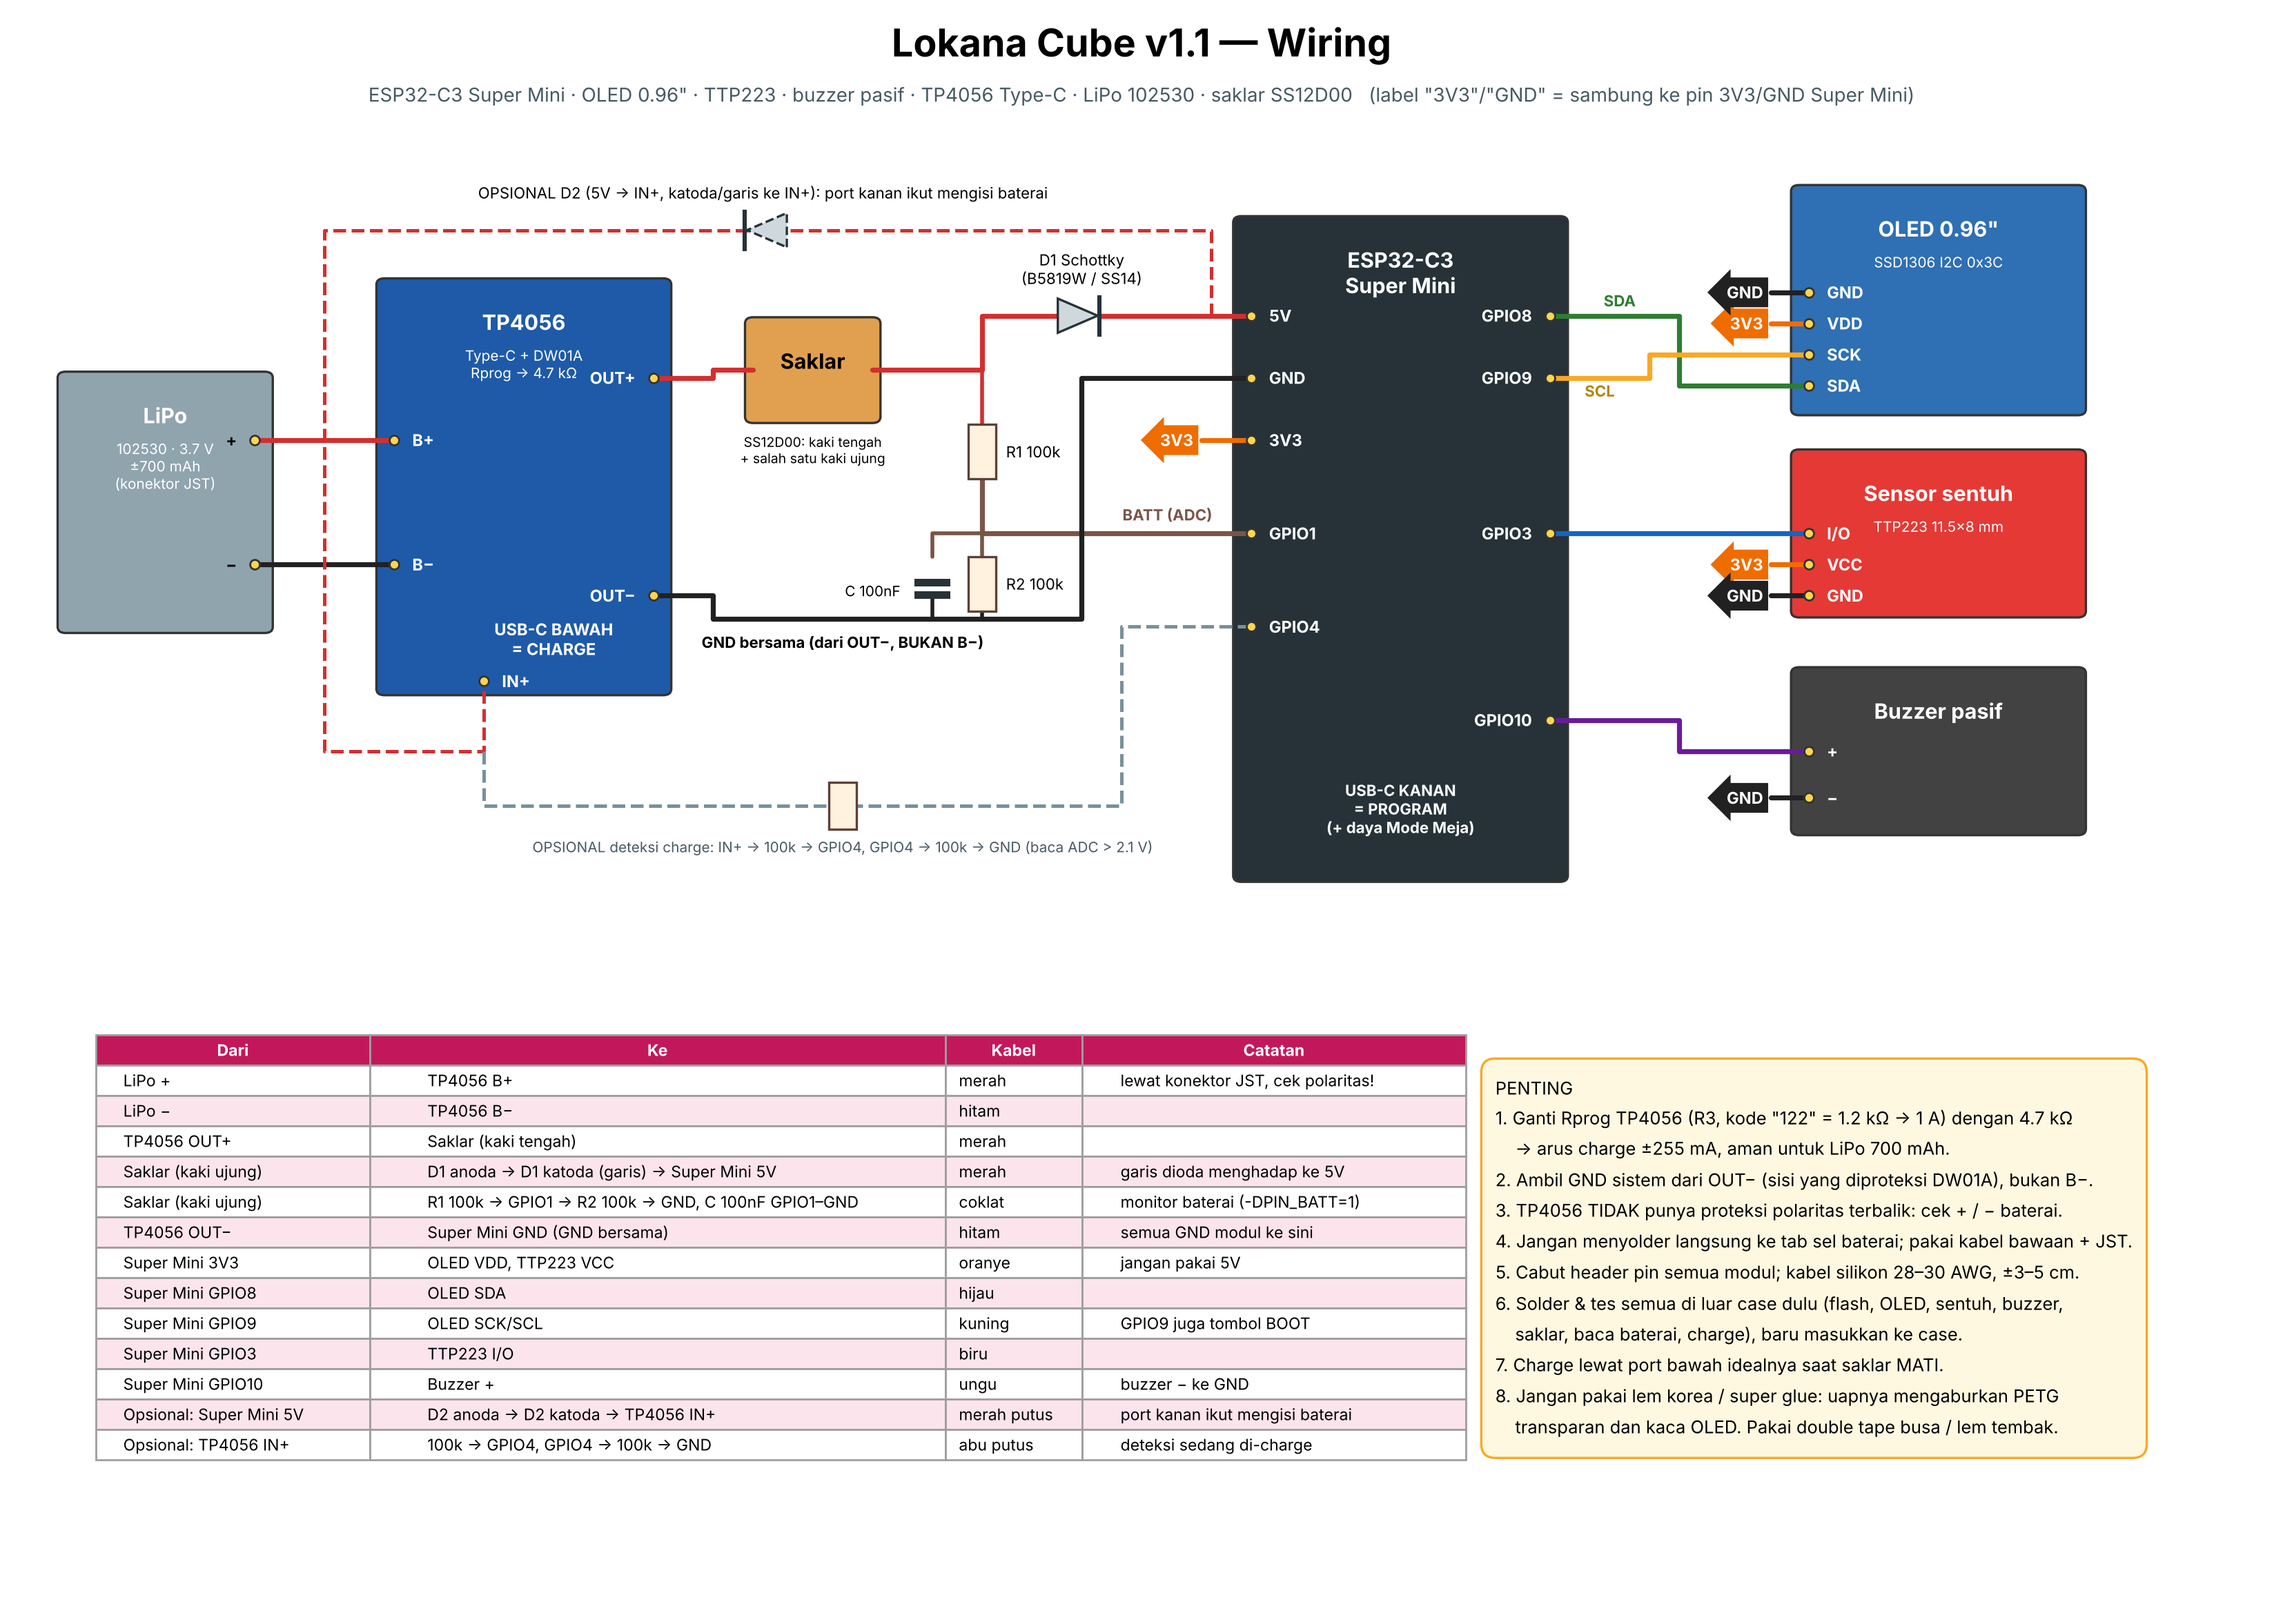
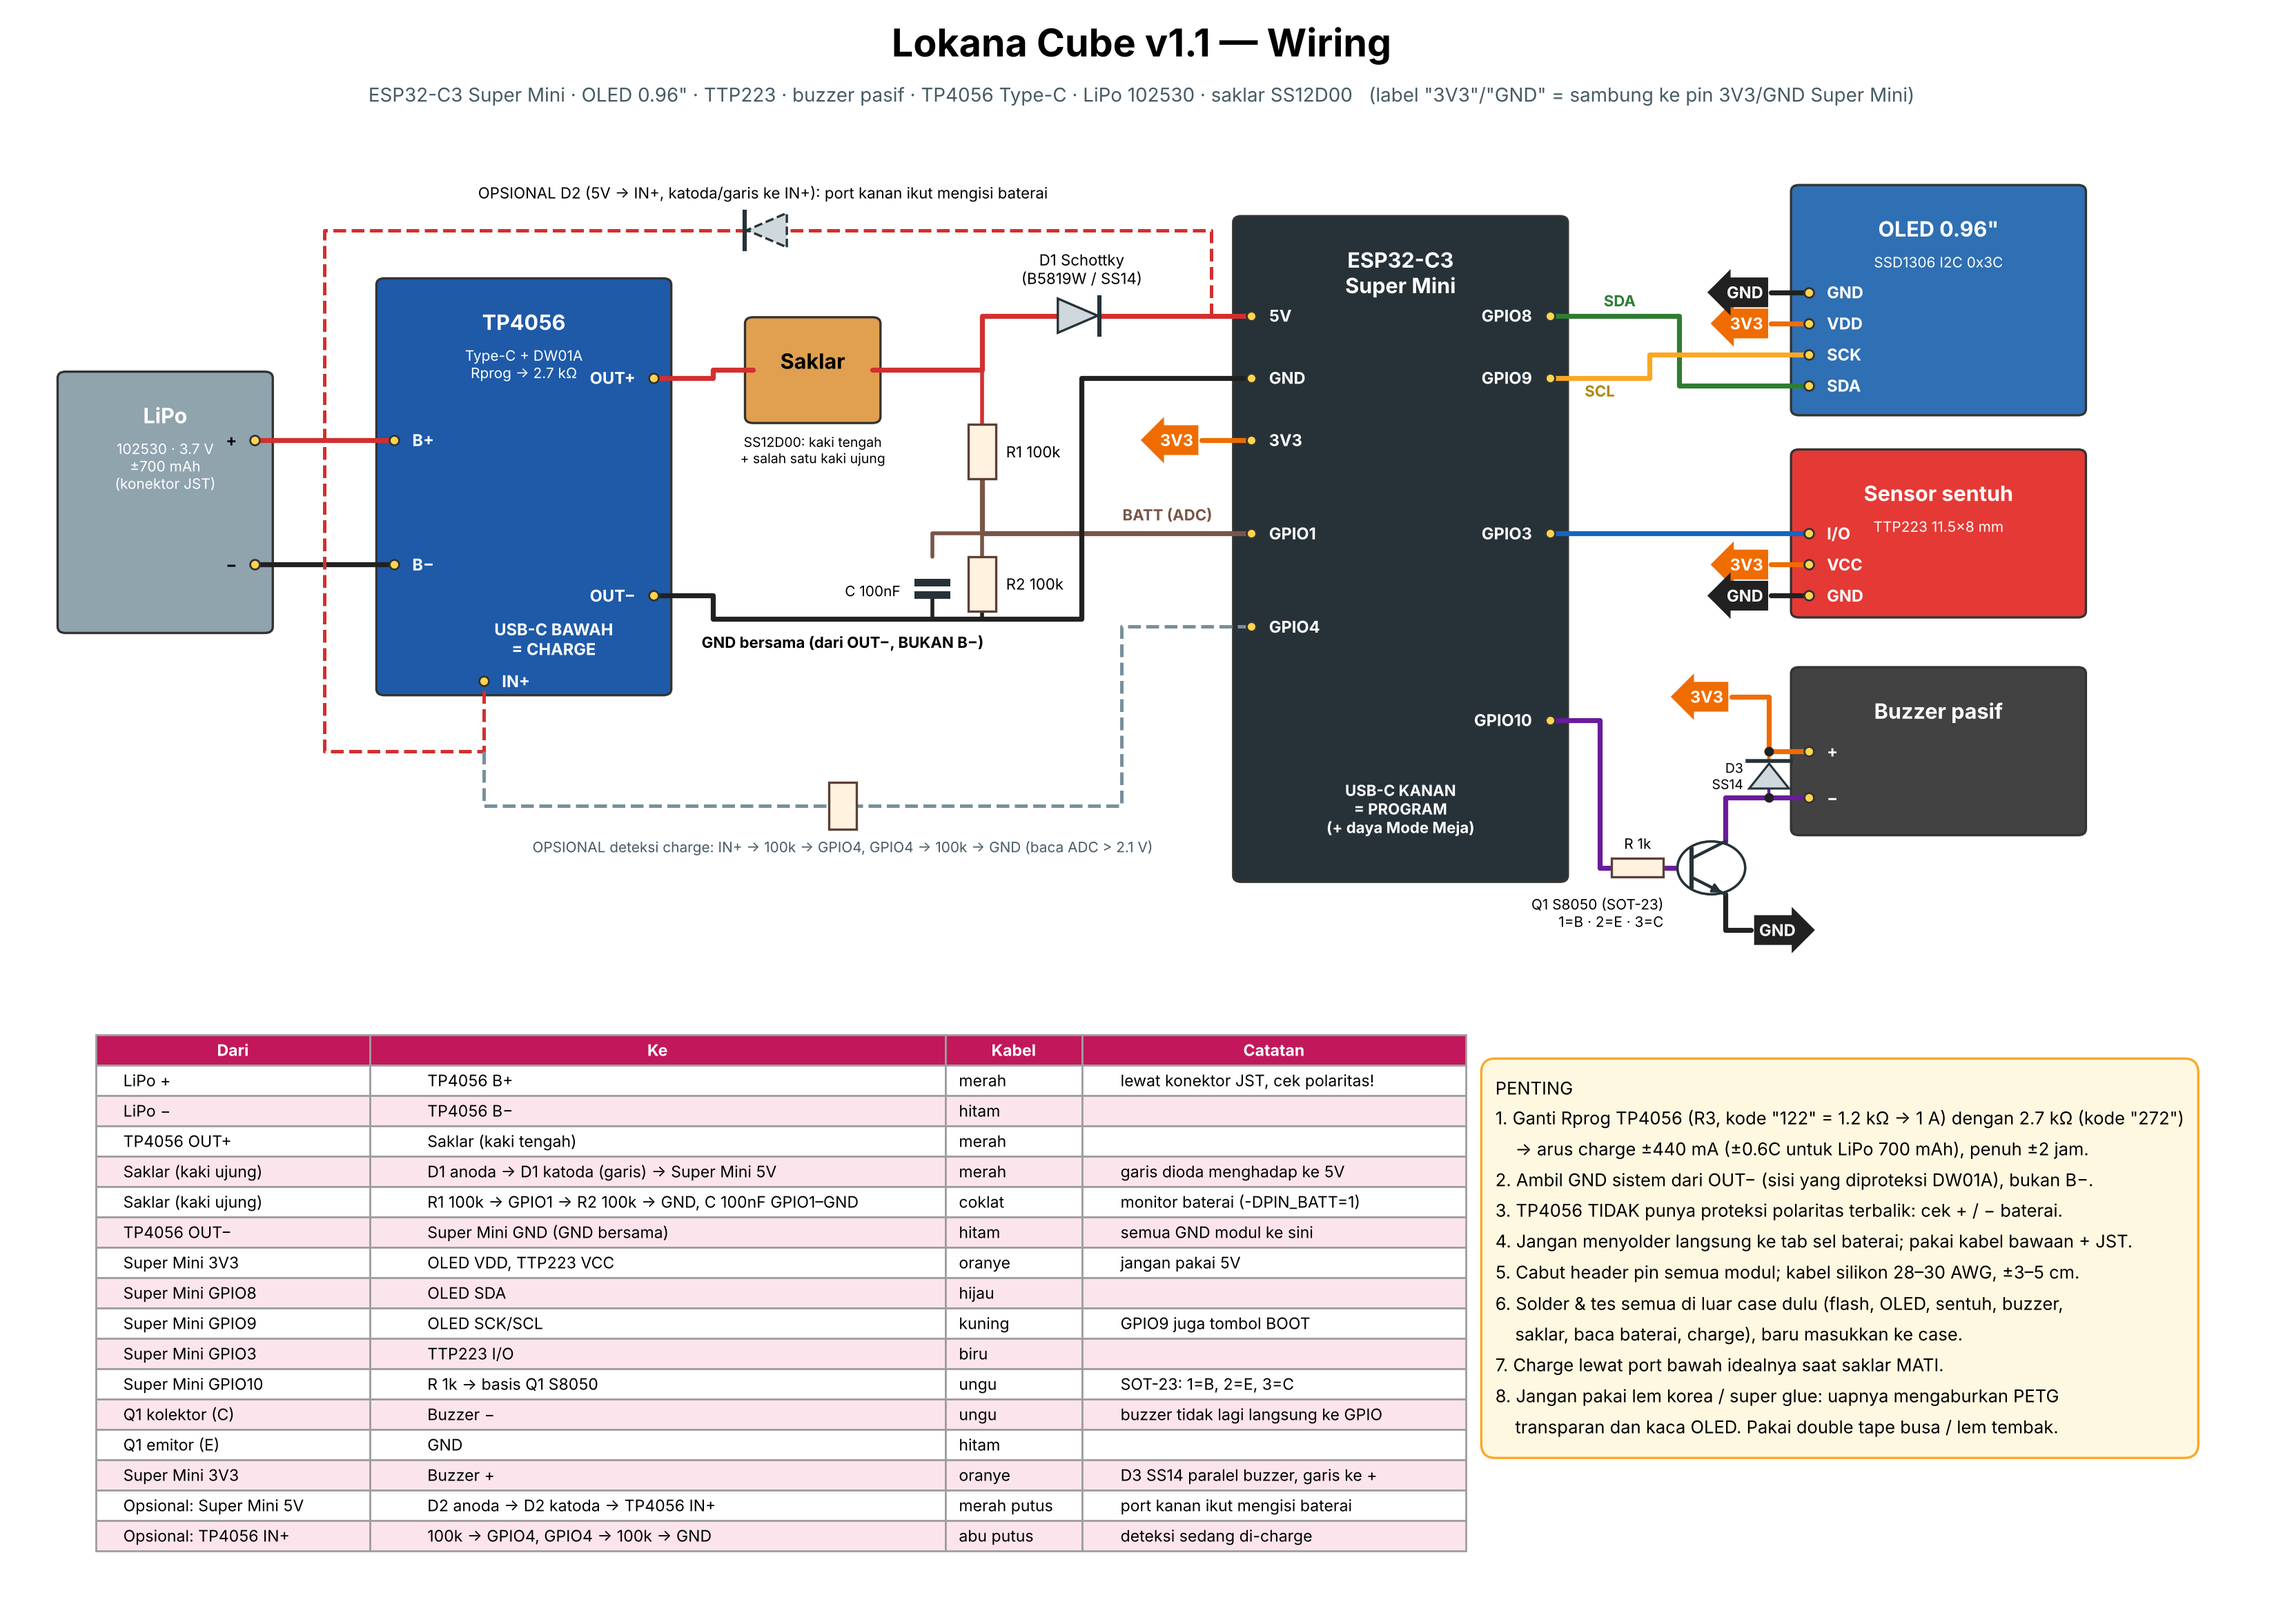
Hardware: BOM, Rprog 2.7k, buzzer lewat Q1, wiring baru
- hardware/BOM.md: daftar komponen & bahan per unit, belanja 3 unit, pin ringkas
- Rprog TP4056 2.7 kOhm (+-440 mA), buzzer lewat transistor Q1 + D3 (case README, CLAUDE.md, wiring PNG)
- Alternatif sah untuk unit pertama: Q1 2SC1815 SOT-23, R basis 1.2 kOhm, C ADC 220 nF

Changed region(s): [[0.0311, 0.843, 0.6539, 0.9679], [0.7161, 0.6557, 0.9652, 0.9055], [0.685, 0.4059, 0.8096, 0.5932]]

diff --git a/hardware/BOM.md b/hardware/BOM.md
@@ -1,0 +1,75 @@
+# Lokana Cube v1.1: daftar komponen dan bahan (BOM)
+
+Untuk satu unit Lokana Cube: ESP32-C3 Super Mini, OLED 0.96", baterai LiPo, dan casing 3D print.
+Wiring lengkap ada di `case/lokana_wiring.png`, cara rakit di `case/README.md`.
+
+## 1. Elektronik (per unit)
+
+| Ref | Komponen | Jml | Spesifikasi / catatan | Kata kunci belanja |
+|---|---|---|---|---|
+| U1 | ESP32-C3 Super Mini | 1 | Type-C, 22.5 × 18 mm | `esp32 c3 super mini` |
+| U2 | OLED 0.96" SSD1306 I2C 128×64 | 1 | 4 pin. Cek urutan pin (GND-VCC atau VCC-GND) | `oled 0.96 i2c 4 pin` |
+| U3 | Modul charger TP4056 Type-C **+ proteksi** | 1 | 6 pad (B+ B− OUT+ OUT− IN+ IN−), chip DW01A + 8205A | `tp4056 type c proteksi` |
+| U4 | Sensor sentuh TTP223 mini | 1 | 11.5 × 8 mm, jumper bawaan (output aktif HIGH) | `ttp223 mini` |
+| BT1 | Baterai LiPo **102530** 3.7 V ±700 mAh | 1 | Sudah ada PCM/proteksi; maks 26 × 31 × 10 mm termasuk PCM | `lipo 102530` |
+| SW1 | Saklar geser SS12D00 | 1 | 3 kaki, tuas 4 mm | `ss12d00` |
+| BZ1 | Buzzer **pasif** 9 × 5.5 mm, 3 V | 1 | Magnetik, kumparan ±16 Ω, **wajib lewat Q1** | `passive buzzer 9055 3v` |
+| Q1 | Transistor NPN S8050 SOT-23 (J3Y) | 1 | Atau MMBT2222A, atau **2SC1815 SOT-23** (marking HF, Ic maks 150 mA; cukup karena buzzer ±30–50 mA). Pin 1=B, 2=E, 3=C (cek marking/datasheet penjual) | `s8050 sot23` |
+| D1 | Dioda Schottky SS14 (SMA) / B5819W (SOD-123) | 1 | Baterai → pin 5V Super Mini | `ss14 smd` |
+| D2 | Dioda Schottky SS14 / B5819W | 0–1 | **Opsional**: port kanan ikut mengisi baterai | — |
+| D3 | Dioda Schottky SS14 / B5819W | 1 | Paralel buzzer, katoda ke + | — |
+| R0 | Resistor SMD 0603 **2.7 kΩ** (kode "272") | 1 | **Rprog TP4056**, ganti R3 bawaan 1.2 kΩ (kode "122"). Charge ±440 mA | `resistor 0603 2k7` |
+| R1, R2 | Resistor SMD 0805 **100 kΩ** | 2 | Pembagi tegangan baterai → GPIO1 | `resistor 0805 100k` |
+| R3, R4 | Resistor SMD 0805 100 kΩ | 0–2 | **Opsional**: deteksi charge IN+ → GPIO4 | — |
+| R5 | Resistor SMD 0805 **1 kΩ** | 1 | Basis Q1. 1–1.5 kΩ sah (arus basis ±2–2.7 mA dari GPIO 3.3 V) | `resistor 0805 1k` |
+| C1 | Kapasitor SMD 0805 **100 nF** | 1 | GPIO1 ke GND, penstabil ADC. 100–220 nF sah (RC ±5–11 ms) | `kapasitor 0805 100nf` |
+
+**Unit pertama (dirakit 2026-11-21):** Q1 = 2SC1815 SOT-23, R5 = 1.2 kΩ, C1 = 220 nF, Rprog = 2.7 kΩ. Semua masih
+dalam rentang di atas; firmware sama.
+
+Lebih praktis beli **kit resistor SMD 0603/0805** dan **kit kapasitor 0805** daripada satu per satu.
+Nilai 2.7 kΩ, 100 kΩ, 1 kΩ, dan 100 nF biasanya sudah ada di kit.
+
+## 2. Casing dan bahan rakit (per unit)
+
+| Bahan | Jml | Catatan |
+|---|---|---|
+| Casing Lokana Cube v1.1 (badan + tutup) | 1 set | PETG eSUN translucent pink, ±9 g, ±46 menit (preset 0.12 mm Fine) |
+| Kabel silikon 30 AWG | ±50 cm | Beberapa warna (merah, hitam, oranye, hijau, kuning, biru, ungu) |
+| Selotip kapton 10 mm | ±10 cm | Isolasi antar-board dan di depan baterai |
+| Double tape busa tipis | ±5 cm | Menempelkan board dan baterai |
+| Lem tembak (hot glue) | sedikit | Saklar, buzzer, sensor sentuh. **Jangan** super glue (uapnya mengaburkan PETG dan kaca OLED) |
+| Heat shrink 1.5–2 mm | ±10 cm | Membungkus Q1, R, dan dioda yang disolder di kabel |
+| Ring gantungan kunci | 1 | Kawat ≤ 2 mm (lubang kuping Ø3 mm) |
+
+## 3. Alat
+
+Solder mata kecil, timah 0.5–0.6 mm, flux, pinset, multimeter, **USB tester Type-C** (ukur arus charge dan
+konsumsi daya), kabel data USB-C, printer 3D, cutter/amplas halus untuk merapikan hasil print.
+
+## 4. Belanja untuk 3 unit (dengan cadangan)
+
+| Barang | Beli | Untuk 3 unit |
+|---|---|---|
+| ESP32-C3 Super Mini | 4 | 3 + 1 cadangan |
+| OLED 0.96" | 4 | 3 + 1 |
+| TP4056 Type-C + proteksi | 5 | sering dijual per 5 |
+| LiPo 102530 | 3 | |
+| TTP223 mini | 5 | |
+| Buzzer pasif 9 × 5.5 | 4 | |
+| SS12D00 | 1 pack (10) | |
+| SS14 / B5819W | 1 pack (20) | 2–3 per unit |
+| S8050 SOT-23 | 1 pack (20) | |
+| Kit resistor SMD 0603 + 0805, kapasitor 100 nF 0805 | 1 set | |
+| Kabel silikon 30 AWG, kapton, double tape, heat shrink, ring | 1 set | |
+
+## 5. Pin (ringkas)
+
+| Fungsi | Pin Super Mini |
+|---|---|
+| OLED SDA / SCL | GPIO8 / GPIO9 |
+| Sensor sentuh | GPIO3 |
+| Buzzer (lewat Q1) | GPIO10 |
+| Baterai (ADC, pembagi 2.0) | GPIO1 |
+| Deteksi charge (opsional) | GPIO4 |
+| Daya baterai | pin 5V (lewat D1) |

diff --git a/hardware/case/README.md b/hardware/case/README.md
@@ -19,6 +19,8 @@ tape busa dan setitik lem tembak.
 
 ## Susunan komponen
 
+Daftar lengkap komponen dan bahan: [`../BOM.md`](../BOM.md).
+
 ```
  depan                                                    belakang
  [layar] OLED 0.96" → Super Mini → TP4056 Type-C → LiPo 102530 → [tutup]
@@ -55,7 +57,7 @@ tape busa dan setitik lem tembak.
 ## Perakitan (dua port)
 
 ```
- USB-C bawah ── TP4056 + DW01A (Rprog 4.7 kΩ ≈ 255 mA untuk 700 mAh)
+ USB-C bawah ── TP4056 + DW01A (Rprog 2.7 kΩ ≈ 440 mA, ±0.6C untuk 700 mAh, penuh ±2 jam)
                  B+/B- ── LiPo 102530 (lewat konektor JST)
                  OUT+ ── saklar ──┬── D1 Schottky ►| ── pin 5V Super Mini ── USB-C kanan
                                   │
@@ -71,7 +73,11 @@ tape busa dan setitik lem tembak.
               (supaya port kanan juga mengisi baterai saat Mode Meja)
  D1, D2: B5819W / SS14
  OLED:   SDA GPIO8, SCL GPIO9, VCC 3V3, GND
- Sentuh: OUT GPIO3, VCC 3V3, GND        Buzzer: GPIO10, GND
+ Sentuh: OUT GPIO3, VCC 3V3, GND
+ Buzzer (lewat transistor, JANGAN langsung ke GPIO):
+   GPIO10 ── R 1k (1–1.5k) ── basis Q1 S8050 / 2SC1815 (SOT-23: 1=B, 2=E, 3=C)
+   3V3 ── buzzer + ;  buzzer − ── kolektor Q1 ;  emitor Q1 ── GND
+   D3 SS14 paralel buzzer (garis/katoda ke +) untuk meredam lonjakan kumparan
 ```
 
 | Kondisi | Yang terjadi |
@@ -87,7 +93,9 @@ saat saklar mati. Tegangan 4.2 V terbaca 2.1 V di GPIO1, masih di dalam rentang 
 (±2.5 V pada atenuasi 11 dB). Kalau R1 ≠ R2, sesuaikan `BATT_DIVIDER = (R1 + R2) / R2`.
 
 1. Cabut header pin semua modul; pakai kabel silikon tipis (28–30 AWG), sependek mungkin.
-2. **Ganti Rprog TP4056** sesuai baterai (bawaan 1.2 kΩ = 1 A, terlalu besar).
+2. **Ganti Rprog TP4056** (R3, SMD 0603) dengan **2.7 kΩ** (kode "272"). Bawaan 1.2 kΩ (kode "122") = 1 A,
+   terlalu besar untuk baterai kecil. Arus charge ≈ 1200 / Rprog. Saat charge pertama, ukur dengan USB tester:
+   ±440 mA dan casing hanya hangat = aman; kalau panas sekali, ganti ke 3.3 kΩ (±360 mA).
 3. Masukkan dari belakang, berurutan: OLED (kaca ke jendela) → Super Mini → TP4056.
    Lapisi dengan selotip kapton di antara board dan di depan baterai.
 4. Saklar di sisi kiri, buzzer di kanan atas, sensor sentuh di kantong atas. Rekatkan dengan lem tembak/UHU.

diff --git a/CLAUDE.md b/CLAUDE.md
@@ -97,12 +97,12 @@ flutter build apk --release --split-per-abi   # HP modern: app-arm64-v8a-release
 |---|---|---|
 | OLED SSD1306 128×64 (I2C, 0x3C) | SDA GPIO8, SCL GPIO9 | Sama di Wokwi. Pindah dari 20/21 di v0.2 (OLED tidak terdeteksi di 20/21) |
 | Tombol | Sensor sentuh TTP223 di GPIO3 (aktif HIGH) | Wokwi: tombol mekanis ke GND (`-DBTN_ACTIVE_LOW=1`). Tombol BOOT (GPIO9) tidak dipakai karena jadi SCL; jangan ditekan saat jalan |
-| Buzzer pasif | GPIO10 | |
+| Buzzer pasif 9×5.5 | GPIO10 → R 1k → Q1 S8050 (NPN); unit pertama: 2SC1815 SOT-23 + R 1.2k | Buzzer + ke 3V3, − ke kolektor Q1, emitor ke GND, D3 SS14 paralel buzzer. Jangan drive langsung dari GPIO (kumparan ±16 Ω). Logika firmware tidak berubah. Daftar komponen: `hardware/BOM.md` |
 | LED bawaan | GPIO8 (= SDA) | Tidak dipakai firmware (`PIN_LED -1`); berkedip redup mengikuti lalu lintas I2C |
-| Baterai | GPIO1 (R1 100k / R2 100k + 100 nF ke GND) | Dipasang **setelah saklar, sebelum D1** (tegangan sel asli). Firmware: `-DPIN_BATT=1` di env `supermini` (belum diaktifkan) |
+| Baterai | GPIO1 (R1 100k / R2 100k + 100 nF ke GND; unit pertama 220 nF) | Dipasang **setelah saklar, sebelum D1** (tegangan sel asli). Firmware: `-DPIN_BATT=1` di env `supermini` (belum diaktifkan) |
 | Deteksi charge (opsional) | GPIO4 (100k/100k dari IN+ TP4056) | Baca dengan **ADC**: > 2.1 V = charger dicolok. Jangan sebagai input digital (bisa 1.6–1.8 V saat D2 terpasang) |
 
-**Jalur daya (case v1.1):** LiPo 102530 → TP4056 Type-C + DW01A (Rprog **4.7 kΩ** ≈ 255 mA) → OUT+ → saklar
+**Jalur daya (case v1.1):** LiPo 102530 → TP4056 Type-C + DW01A (Rprog **2.7 kΩ** ≈ 440 mA, keputusan Wayan 2026-11-19; cadangan 3.3 kΩ kalau terlalu panas) → OUT+ → saklar
 SS12D00 → **D1 Schottky** → pin 5V Super Mini. GND sistem dari **OUT−**. Opsional **D2**: 5V Super Mini → IN+ TP4056
 (port program ikut mengisi). Karena D1 (±0.3 V), regulator 3.3 V mulai kurang tegangan saat sel ±3.5 V.
 Port: USB-C **kanan** = Super Mini (program/data), USB-C **bawah** = TP4056 (charge), saklar di **kiri**.
